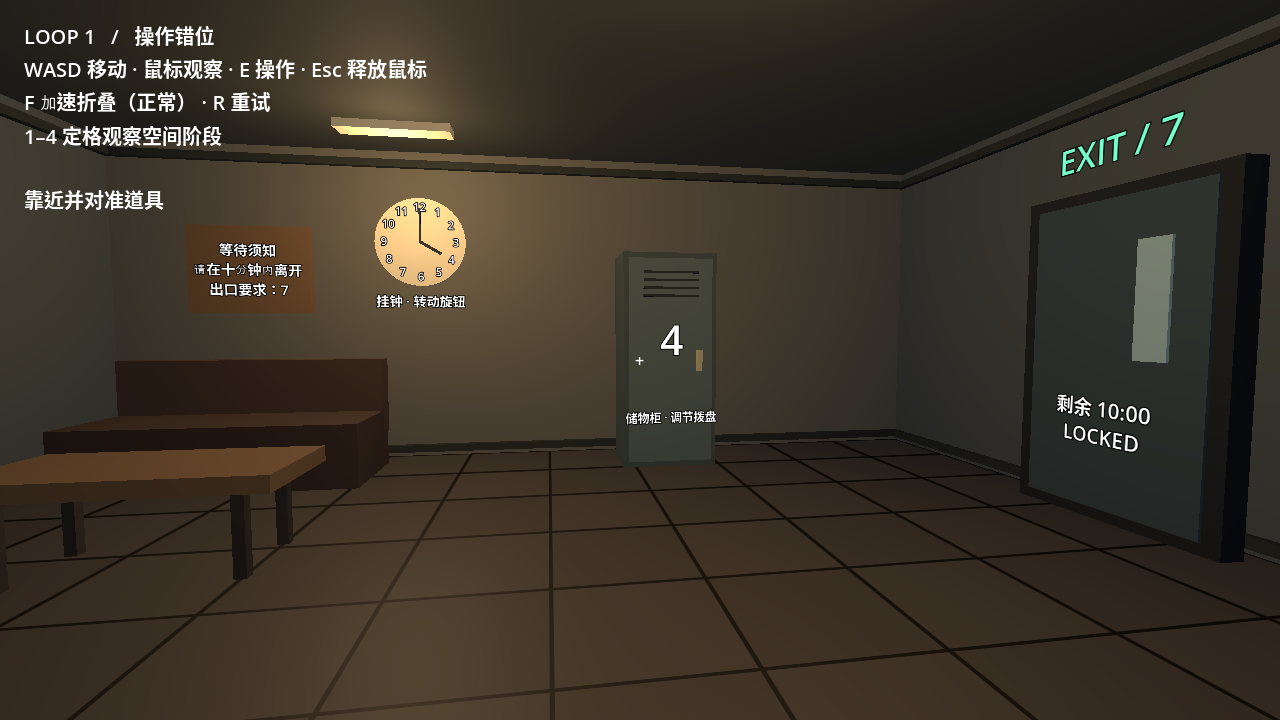
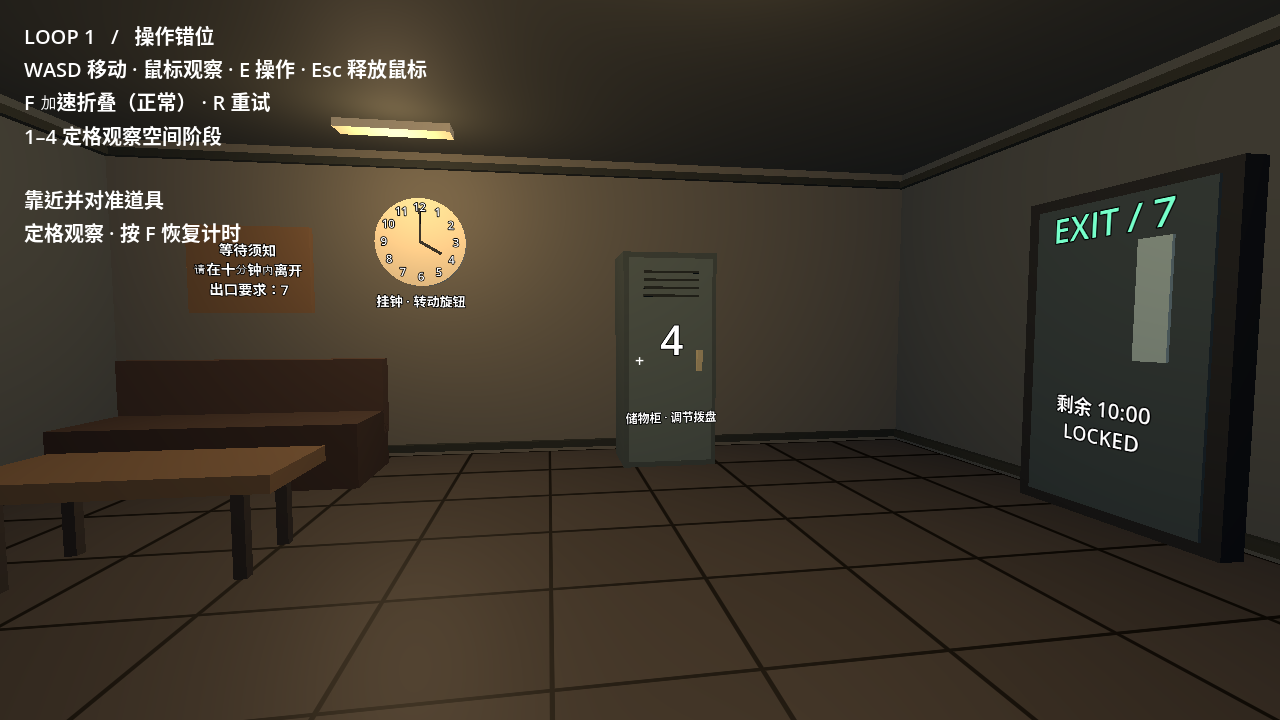
Contract room around fixed-height player and preserve prop scale

Changed region(s): [[0.8125, 0.275, 0.9375, 0.3361], [0.8125, 0.1528, 0.9375, 0.2444], [0.0, 0.3056, 0.1875, 0.3361]]

diff --git a/demo/README.md b/demo/README.md
@@ -22,14 +22,16 @@ Loop 2 复用同一谜题，只演示循环，不代表第二关。
 
 `godot --headless --path . -- --smoke-test`
 
-自动检查六面房间的边界配对、变形不会翻转或塌陷、严重变形下的瞄准、操作错位、解锁、成功循环与超时重置；失败返回非零退出码。
+自动检查实际占地与净高收缩、固定视角高度、移动映射、六面房间的边界配对、变形不会翻转、严重变形下的瞄准、操作错位和成功／失败重置；失败返回非零退出码。
 云环境内需要将 XDG_DATA_HOME、XDG_CONFIG_HOME、XDG_CACHE_HOME 指向可写目录。
 
 ## 当前边界
 
 这是简单几何体原型。房间外壳的六个面使用一致的边界细分和连续空间变形，地板纹理、家具和门框也跟随拉伸。
-通过后部压缩、斜向剪切和局部弯曲产生不同区域的透视错位；未实现独立摄像机的多重投影或参考图中的写实材质。
-移动采用原始坐标的导航边界与简化家具阻挡，摄像机位置跟随变形，不是正式物理碰撞系统。
+房间同时沿宽度、深度和高度收缩；极限状态的占地从 100 平方米降至约 35.76 平方米，中心净高从 3.8 米降至约 2.90 米。
+玩家视角离脚下地面始终为 1.65 米，保持实际移动速度；原始坐标的导航边界在世界空间中跟随房间收缩。
+家具通过局部锚点补偿整体缩放，保留尺寸参照和局部剪切，随墙和地面靠拢，增加拥挤感。
+尚未实现完整物理碰撞系统、独立摄像机的多重投影或参考图中的写实材质。
 出口用 E 触发穿门流程，尚无走过门槛的检测。
 中文文本使用系统字体回退；若本机缺少中文字体，请安装中文字体。
 工程无第三方素材。正式发行前仍需完成画面、碰撞、可用性、性能和平台测试。

diff --git a/demo/REFERENCE_FEATURES.md b/demo/REFERENCE_FEATURES.md
@@ -9,6 +9,7 @@
 | 后墙的公告板、钟和柜子明显倾斜，出口保持不同的局部方向 | 按深度变化的剪切、压缩和弯曲；局部变形导数随位置变化 |
 | 灯具和天花板同向贴合；家具仍与墙、地板保持布局关系 | 家具、灯具、文字和交互位置跟随同一映射；没有额外旋转墙板 |
 | 变化渐进，后期更强 | 十分钟内非线性增加强度；1–4 可定格对比 |
+| 房间在失控前变得狭窄，保持玩家的体量参照 | 宽度与深度各收缩约 38%，高度收缩约 20%；玩家眼高不缩放，家具保留尺寸参照 |
 
-镜头保持第一人称，不使用整屏倾斜制造效果。当前是连续几何变形带来的透视变化；并非多个独立投影同时渲染。
+镜头保持第一人称，不使用整屏倾斜或改变 FOV 制造效果。当前是实际房间收缩与连续几何变形带来的透视变化；并非多个独立投影同时渲染。
 家具与材质保留简化版本，重点验证连接、拉伸和可玩性。
